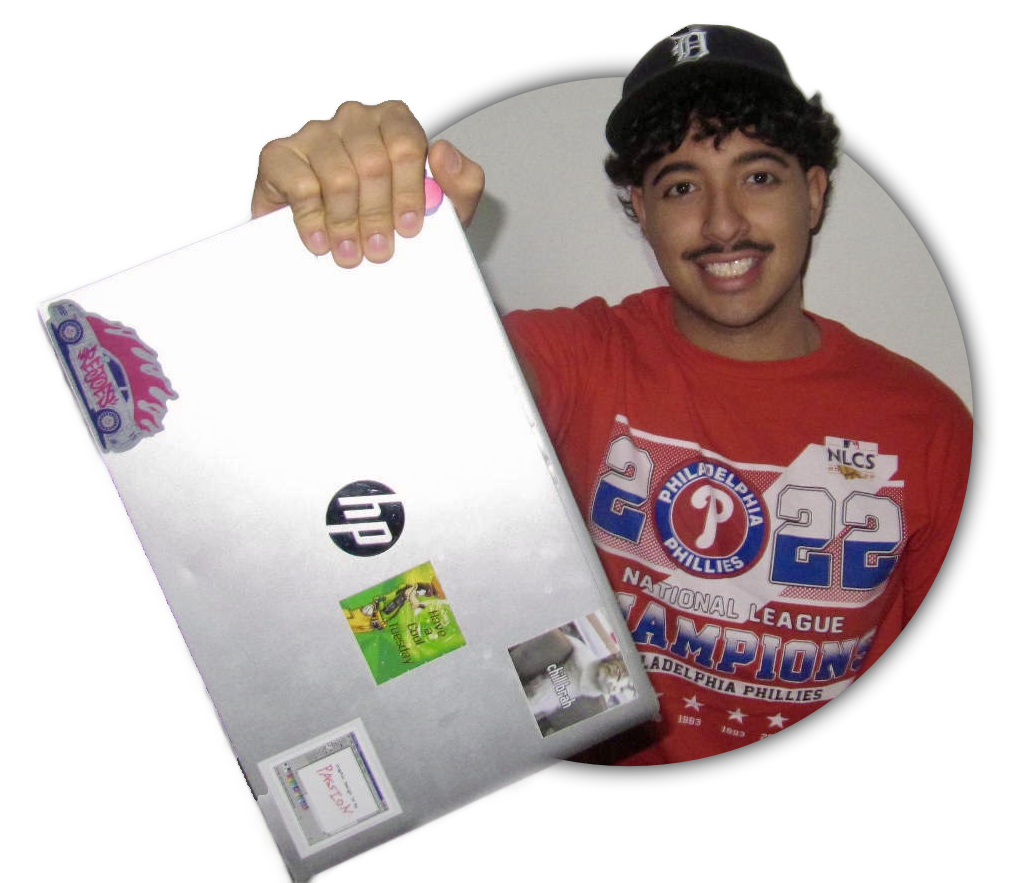
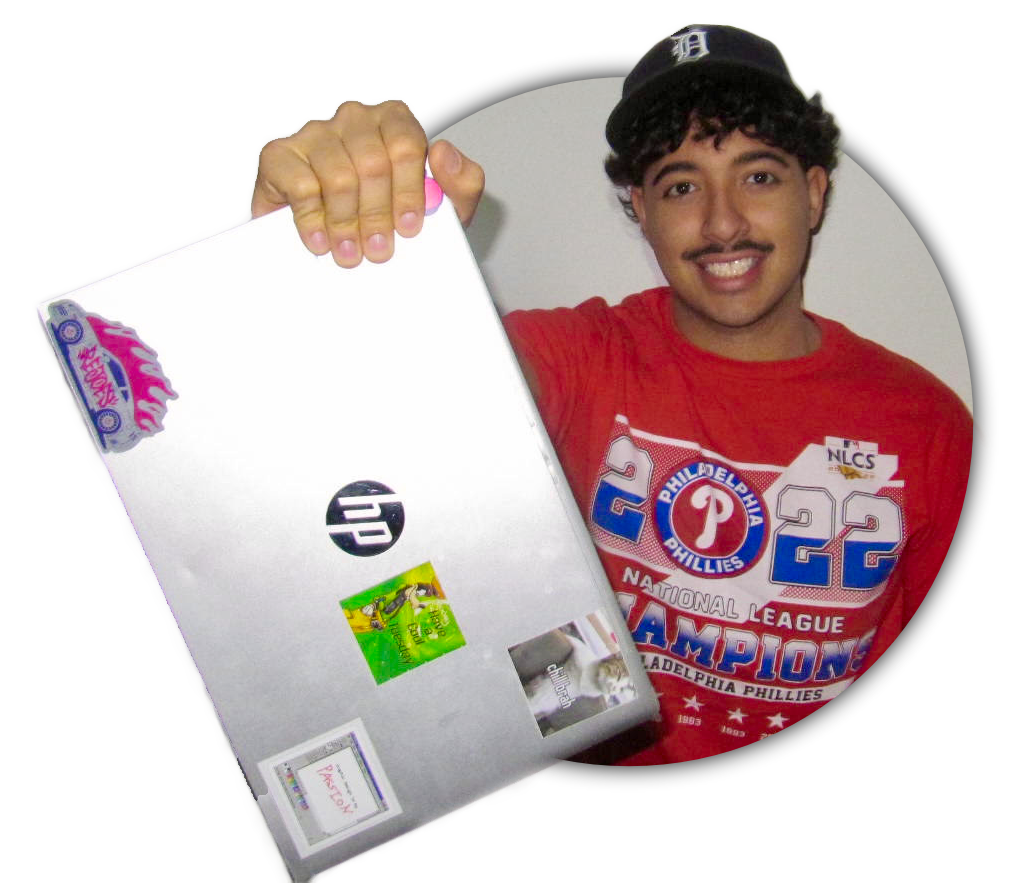
image pop out and hero edits

diff --git a/app/components/hero.jsx b/app/components/hero.jsx
@@ -15,11 +15,11 @@ const HeaderSection = () => {
 
           {/* Hero content */}
           
-          <div className="  justify-center  text-center mt-10 md:mt-40  ">
+          <div className="  justify-center  text-center mt-10 md:mt-30  ">
             
             <div className="grid md:grid-cols-2 p-2 ">
               <div>
-               <h1 className=" md:mt-10 md:mb-10 mb-5  text-7xl scale-y-150 md:text-8xl lg:text-[12vw] font-figtree font-black text-[#F7FD06] [-webkit-text-stroke:1.5px_#000000] md:[-webkit-text-stroke:2px_#000000] lg:[-webkit-text-stroke:4px_#000000]  ">
+               <h1 className=" md:mt-20 md:mb-10 mb-5  text-7xl scale-y-150  md:text-8xl lg:text-[12vw] font-figtree font-black text-[#F7FD06] [-webkit-text-stroke:1.5px_#000000] md:[-webkit-text-stroke:2px_#000000] lg:[-webkit-text-stroke:4px_#000000]  ">
                  WHAT'S <br />GOOD!
                </h1>
                
@@ -29,7 +29,7 @@ const HeaderSection = () => {
                <Image
                  src={assets.arthur_popout}
                  alt="Hero Image"
-                 className="object-contain w-70 md:w-80 lg:w-120 mx-auto "
+                 className="object-contain w-70 md:w-80 lg:w-135 mx-auto "
                 />
                 <h2 className="text-3xl p-5 lg:text-6xl font-figtree font-extrabold text-[#FF0000] [-webkit-text-stroke:1px_#FFFFFF] lg:[-webkit-text-stroke:2px_#FFFFFF] ">
                  My name is ARTHUR and I create stuff.
